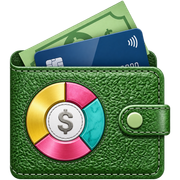
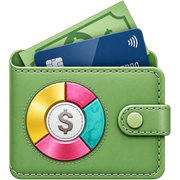
style(branding): soften wallet texture and lighten green

diff --git a/public/sw.js b/public/sw.js
@@ -1,4 +1,4 @@
-const CACHE_NAME = "family-money-shell-v4";
+const CACHE_NAME = "family-money-shell-v5";
 const APP_SHELL = ["/icon-192.png", "/icon-512.png"];
 
 self.addEventListener("install", (event) => {
